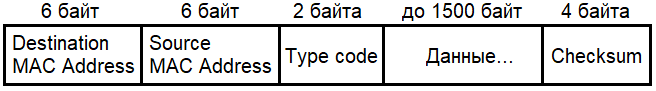
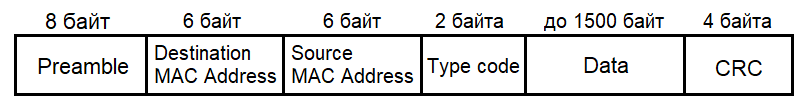
fix

diff --git a/network.md b/network.md
@@ -1679,14 +1679,15 @@ ARP-таблица заполняется автоматически по мер
 
 Ethernet является представителем семейства *CSMA/CD* протоколов. Изначально Ethernet функционировал поверх разделяемой широковещательной шины, однако современные стандарты располагают в центре звездообразной топологии *коммутатор*, к которому через *дуплексные* каналы типа *точка-точка* подключаются другие узлы. Коммутатор выполняет *буферизацию* и *forwarding* проходящих через него пакетов, что исключает возможность появления коллизий - данная схема делает применение заложенных в протоколе механизмов контроля доступа к среде избыточным, однако их реализация сохраняется для обеспечения обратной совместимости. Современные стандарты определяют множество реализаций Ethernet, функционирующих на различных скоростях, расстояниях и в различных средах, начиная витой парой и кончая оптикой - все они используют единый формат кадра.
 
-Ethernet НЕ является надёжным протоколом и использует только проверку контрольной CRC-суммы кадры - он не устанавливает соединения и не отправляет подтверждения.
+Ethernet НЕ является надёжным протоколом и использует только проверку контрольного CRC-кода кадра - он не устанавливает соединения и не отправляет подтверждения.
 
 *Ethernet-пакет* имеет следующий формат:
 
 ![формат Ethernet-пакета](images/img-76.png)
 
++ **Preamble** - служебная открывающая последовательность битов фиксированного формата (чередование 0 и 1), предназначенная для синхронизации передатчика и приёмника;
 + **Destination MAC-Address** - физический адрес получателя;
 + **Source MAC-Address** - физический адрес отправителя;
 + **Type code** - поле типа Ethernet-пакета; используется для (де)мультиплексирования пакетов из полезной нагрузки кадра по протоколам сетевого уровня; для IP значение равно `0x0800`;
 + **Data** - поле данных, *максимальный размер* которого ограничен значением *MTU* в `1500 байт`; *минимальный размер* поля данных составляет `46 байт` - если передаваемая полезная нагрузка имеет меньшую длину, то она добивается до данного значения;
-+ **Checksum** - поле контрольной суммы с CRC-кодом *всего пакета*, включая заголовок и данные; несоответствие CRC-кода вынуждает получателя просто уничтожить поврежденный кадр.
++ **Checksum** - поле контрольного CRC-кода *всего пакета*, включая заголовок и данные; при несоответствии CRC-кода поврежденный кадр уничтожается.
